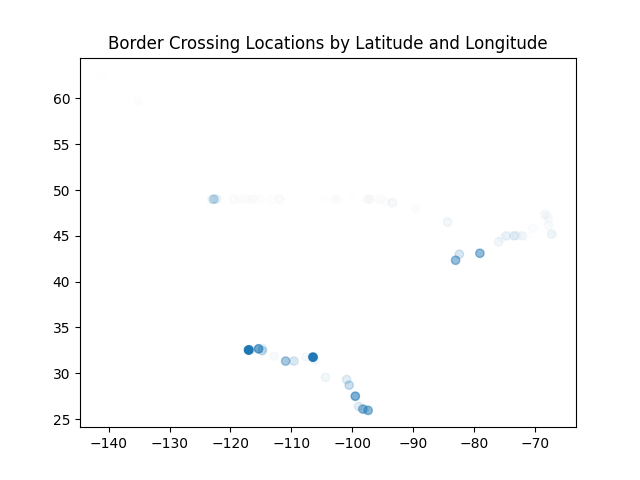
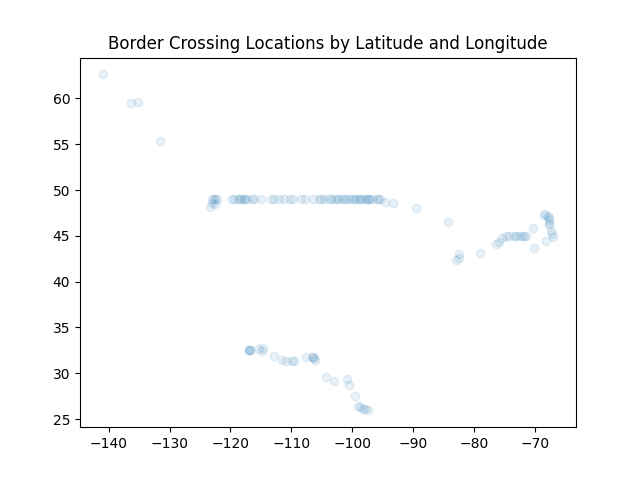
Commits Jan 12th. Redoing Main.py and plotdata.py

diff --git a/main.py b/main.py
@@ -1,45 +1,44 @@
 import polars as pl
 from sklearn.base import BaseEstimator, TransformerMixin
-from datetime import datetime
+from datetime import datetime as dt
 from sklearn.linear_model import LinearRegression
 from sklearn.preprocessing import OneHotEncoder
 from sklearn.compose import ColumnTransformer
 import pandas as pd
+import numpy as np
 
-training = pl.read_parquet(r"border_crossings\data\train_set.parquet")
+training = pd.read_parquet(r"border_crossings\data\train_set.parquet")
+
+# Split the training data from the labels
+y = ["Value"]
+X = training.drop(y, axis=1)
+y = training.copy(y)
 
 
 class DateTransformer(BaseEstimator, TransformerMixin):
     """
-    Transforms a string date column into a proper date format
+    Transforms a string date column into K-Hot encoding
     """
 
     def __init__(self, column: str, date_format="%b %Y"):
         self.date_format = date_format
         self.column = column
 
-    def fit(self, X: pl.DataFrame, y=None) -> pl.DataFrame:
+    def fit(self, X, y=None):
+        """
+        Fit only needs to return self
+        """
         return self
 
-    def transform(self, X: pl.DataFrame) -> pl.DataFrame:
+    def transform(self, X):
+        X["Date"] = pd.to_datetime(X["Date"], format=self.date_format)
+        X["Year"] = X[self.column].dt.year
+        X["Month"] = X[self.column].dt.month
+        print(X)
 
-        if isinstance(X, pd.DataFrame):
-            # Convert pandas to polars
-            X = pl.from_pandas(X)
 
-        if self.column not in X.columns:
-            raise ValueError(f"Column '{self.column}' not found in the DataFrame.")
-        X = X.with_columns(pl.col(self.column).str.to_date("%b %Y"))
-        epoch = pl.lit(datetime(1950, 1, 1))
-        # Calculate days since epoch
-        nanoseconds_per_day = 24 * 60 * 60 * 1_000_000_000  # Nanoseconds in a day
-        X = X.with_columns(
-            ((pl.col(self.column) - epoch).cast(pl.Int64) / nanoseconds_per_day)
-            .cast(pl.Int64)
-            .alias("Days Since Epoch")
-        )
-        X = X.drop(self.column)
-        return X.to_pandas()
+datetransformer = DateTransformer("Date")
+datetransformer.transform(X)
 
 
 transformer = ColumnTransformer(
@@ -58,3 +57,13 @@ with pl.Config(tbl_cols=-1):
     print(transformed_data)
 
 print(transformed_data)
+
+# To do:
+# drop the values column and make a separate dataframe that has the values
+# We can split the numeric columns and the categorical columns into separate
+# pipelines, and then transform them both in a ColumnTransformer or using from sklearn.pipeline.FeatureUnion
+# e.g., from sklear.compose import ColumnTransformer
+# full_pipeline = ColumnTransformer([
+#        ("num", num_pipeline, num_attribs), # Where num_pipeline is its own pipeline
+#        ("cat", OneHotEncoder(), cat_attribs),
+#    ])

diff --git a/plot_data.py b/plot_data.py
@@ -1,31 +1,14 @@
 import matplotlib.pyplot as plt
 import polars as pl
-from sklearn.preprocessing import (
-    MinMaxScaler,
-)  # Transform the value column into a normalized 0-1
 
 train_set = pl.read_parquet(r"border_crossings\data\train_set.parquet")
 
 # Group the data
 train_set = train_set.group_by(["Latitude", "Longitude"]).agg(pl.col("Value").sum())
 
-# Instantiate a scaler so that we can utilize the value as the alpha
-scaler = MinMaxScaler()
-
-# Scale the value column
-scaled_values = scaler.fit_transform(train_set["Value"].to_numpy().reshape(-1, 1))
-
-# Add scaled values back to the DataFrame, adjusting slightly for alpha
-adjusted_alpha = scaled_values.flatten()
-adjustment = 1e-6
-adjusted_alpha = adjusted_alpha * (1 - 2 * adjustment) + adjustment
-
-train_set = train_set.with_columns(pl.Series("Value", adjusted_alpha))
-print(train_set)
-
 # Examine the data by latitute and longitude
 fig, ax = plt.subplots()
-ax.scatter(x=train_set["Longitude"], y=train_set["Latitude"], alpha=train_set["Value"])
+ax.scatter(x=train_set["Longitude"], y=train_set["Latitude"], alpha=0.1)
 
 
 ax.set_title("Border Crossing Locations by Latitude and Longitude")
